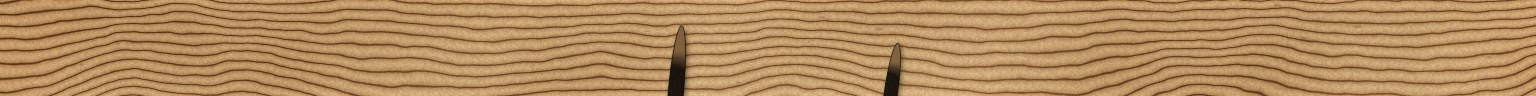
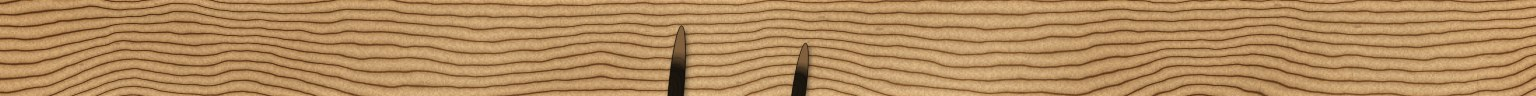
Fix compound arris: move knots closer, average u for multi-knot crop
Second arris knot moved from u=0.58 to u=0.52 so both knots on the
bottom surface fall within the same crop window (they were 1300px
apart in the rendered image, wider than the 400px display tile).

pos() helper now averages u across all knots on a surface instead of
using only the first, ensuring the crop centres between them.

Changed region(s): [[0.5625, 0.4688, 0.5938, 1.0], [0.5, 0.4688, 0.5312, 1.0]]

diff --git a/components/KnotTypeDiagram.tsx b/components/KnotTypeDiagram.tsx
@@ -220,13 +220,14 @@ function DetailPanel({ presetId, onAnalyze, analyzing }: DetailPanelProps) {
   const allLoaded = SURFACE_IDS.every((s) => images[s]);
   const surfaceImages = images as Record<SurfaceId, string>;
 
-  // Build object-position for each surface based on the knot's u coordinate.
-  // This ensures the fixed-height crop always frames the knot rather than
-  // the (often empty) centre of the board.
+  // Build object-position for each surface.
+  // When multiple knots share a surface (e.g. compound arris) use their
+  // average u so the crop shows all of them, not just the first one.
   const pos = (sid: SurfaceId): string => {
-    const knot = preset.project.knots.find((k) => k.surface === sid);
-    if (!knot) return "center";
-    return `${Math.round(knot.u * 100)}% center`;
+    const knots = preset.project.knots.filter((k) => k.surface === sid);
+    if (!knots.length) return "center";
+    const avgU = knots.reduce((s, k) => s + k.u, 0) / knots.length;
+    return `${Math.round(avgU * 100)}% center`;
   };
 
   return (

diff --git a/lib/samples.ts b/lib/samples.ts
@@ -260,18 +260,18 @@ export const SAMPLE_PRESETS: SamplePreset[] = [
           diameter_mm: 18, aspect_ratio: 1.7, rotation_deg: 0,
           shape: "oval", type: "dead", darkness: 0.88,
         },
-        // Second arris adjacent
+        // Second arris — kept close so both are visible in the cropped tile
         {
           id: "ac-k3",
           surface: "front",
-          u: 0.58, v: 0.97,
+          u: 0.52, v: 0.97,
           diameter_mm: 52, aspect_ratio: 1.9, rotation_deg: -82,
           shape: "spike", type: "dead", darkness: 0.88,
         },
         {
           id: "ac-k4",
           surface: "bottom",
-          u: 0.58, v: 0.52,
+          u: 0.52, v: 0.52,
           diameter_mm: 16, aspect_ratio: 1.5, rotation_deg: 0,
           shape: "oval", type: "dead", darkness: 0.85,
         },